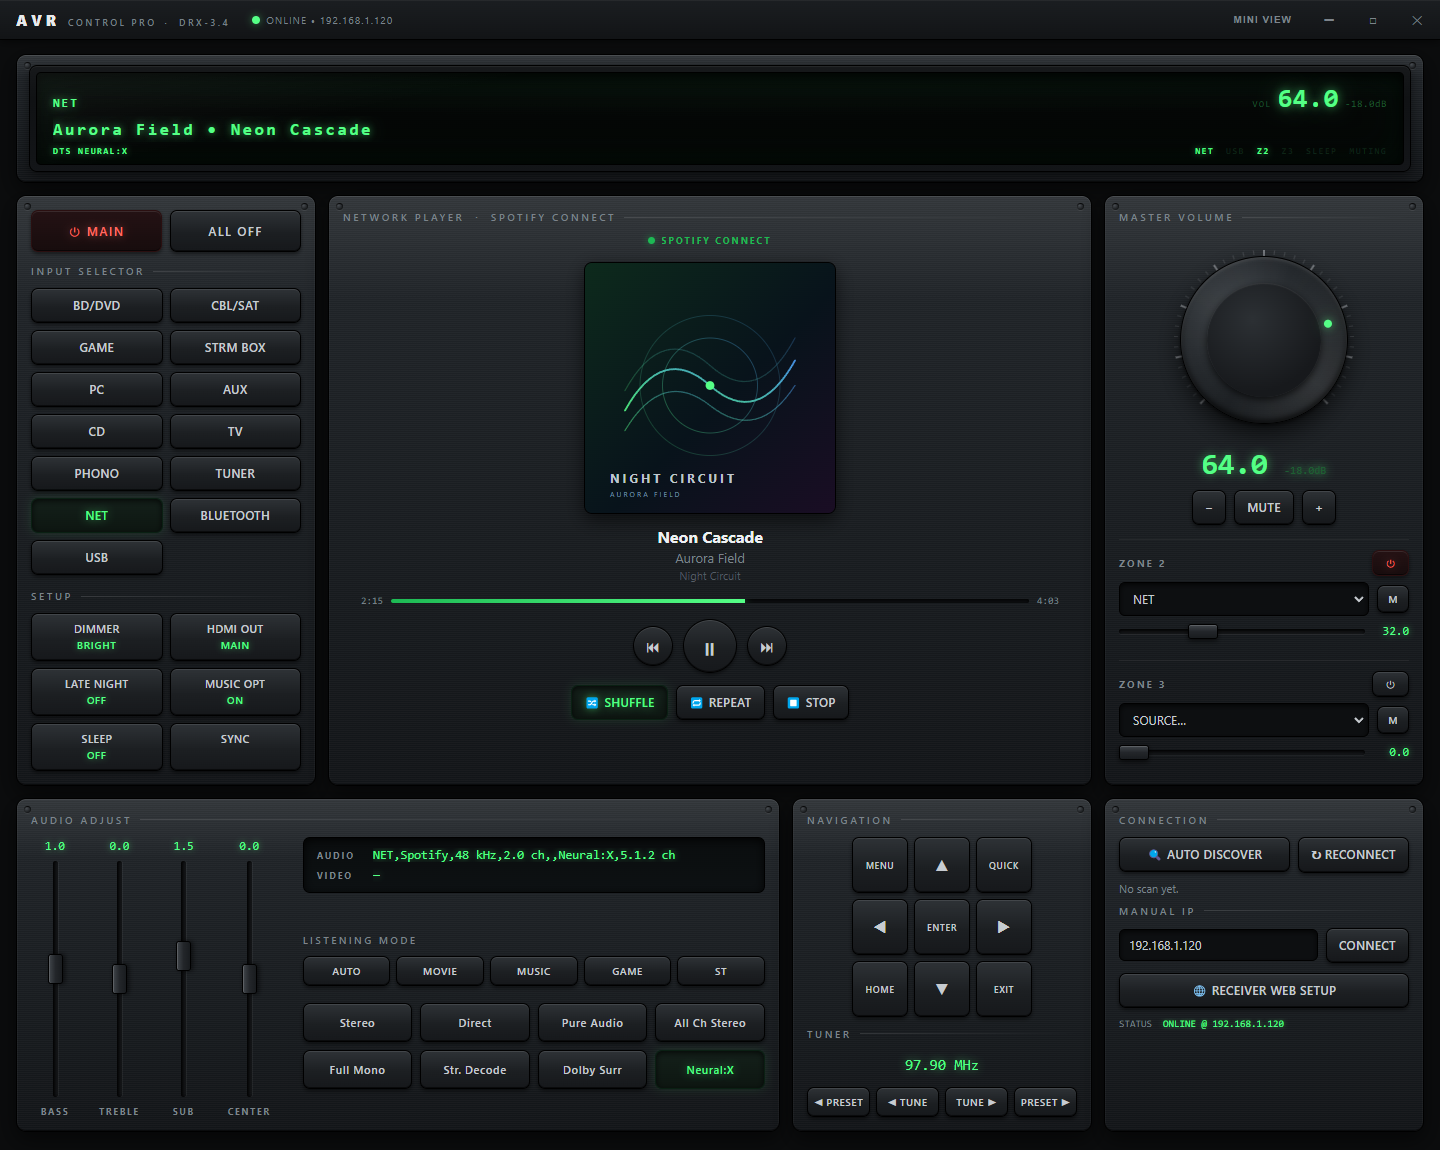
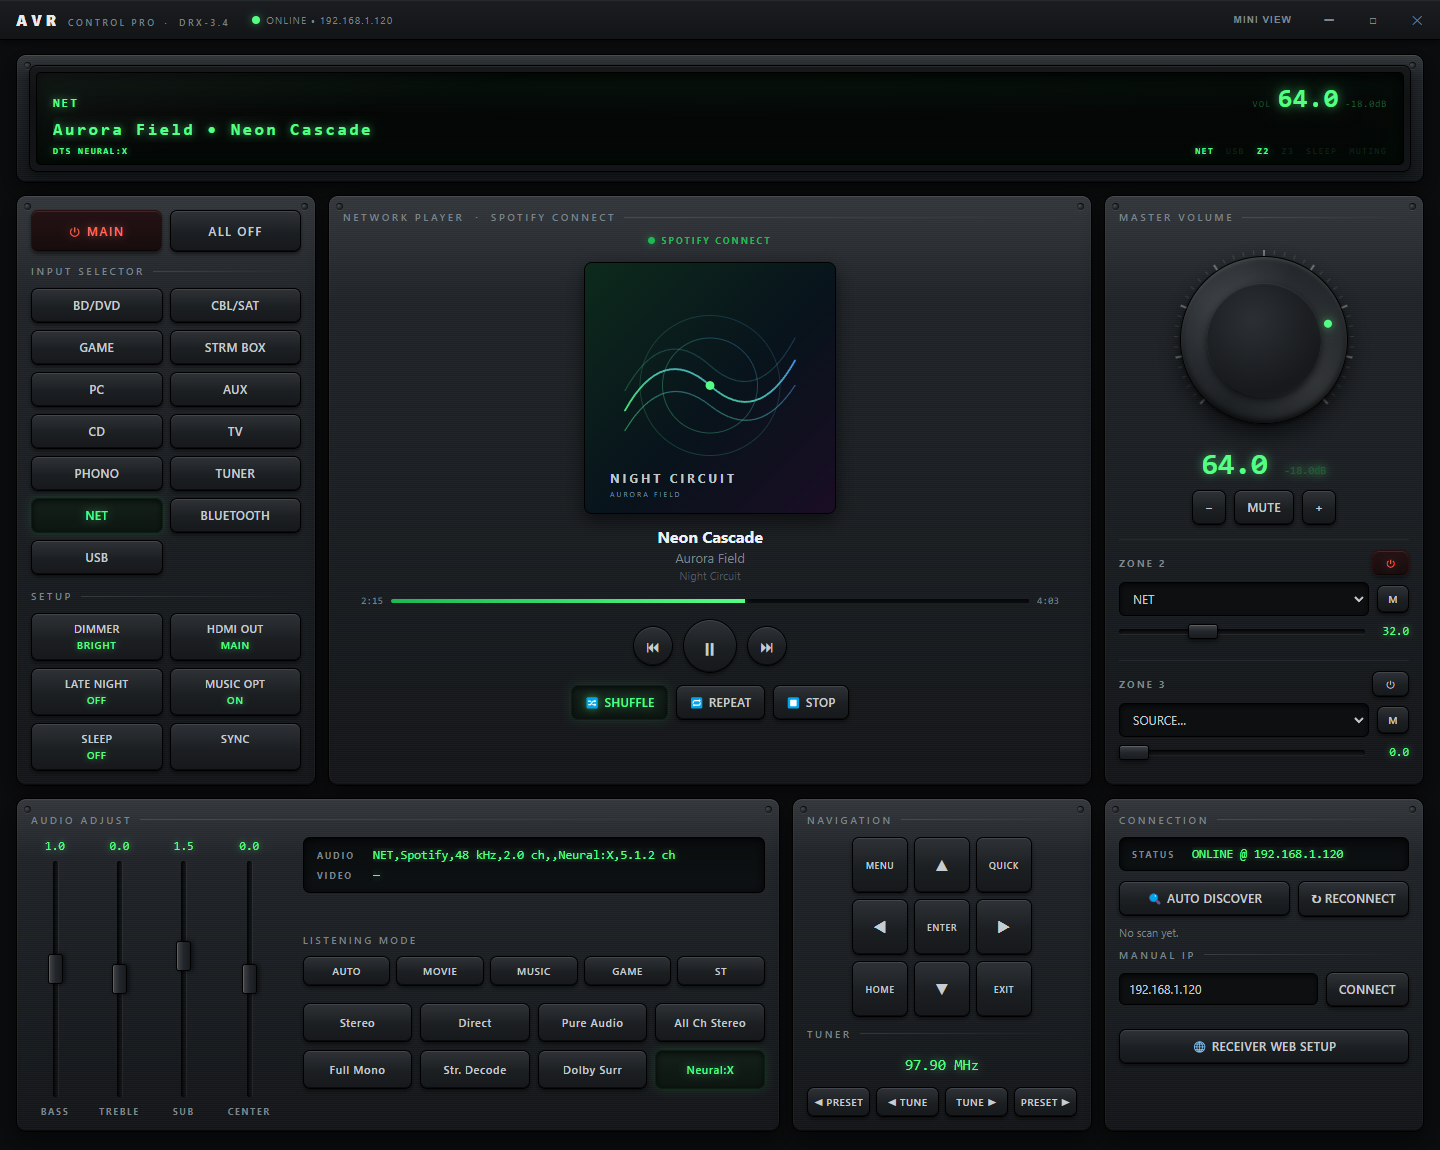
Lead the Connection panel with the status readout
Moves STATUS from the bottom of the panel to directly under the heading,
in the same inset frame and 12.5px type as the AUDIO/VIDEO readout, so
the connection state reads at a glance instead of being the smallest
line in the panel. Adds separation between the Manual IP row and the web
setup button, which were running together.

Changed region(s): [[0.7812, 0.7304, 1.0, 0.913]]

diff --git a/renderer/full.html b/renderer/full.html
@@ -126,6 +126,16 @@
   .info-line b.warn { color: #ffc266; text-shadow: 0 0 6px rgba(255,181,71,0.5); }
 
   /* Connection panel */
+  .status-bar { display: grid; grid-template-columns: 50px 1fr; gap: 10px; align-items: baseline;
+    margin-bottom: 10px; padding: 9px 12px; border-radius: 7px; border: 1px solid #000;
+    background: linear-gradient(180deg, #0a0d0e, #0d1113);
+    box-shadow: inset 0 2px 9px rgba(0,0,0,0.85); }
+  .status-bar span { font-size: 9px; font-weight: 700; letter-spacing: 1.8px; color: var(--text-dim); }
+  .status-bar b { font-family: Consolas, monospace; font-size: 12.5px; font-weight: 400;
+    color: var(--vfd); text-shadow: 0 0 6px var(--vfd-glow);
+    white-space: nowrap; overflow: hidden; text-overflow: ellipsis; }
+  .status-bar b.bad { color: #ff8b83; text-shadow: 0 0 6px rgba(255,95,86,0.5); }
+  .status-bar b.warn { color: #ffc266; text-shadow: 0 0 6px rgba(255,181,71,0.5); }
   .disc-list { display: flex; flex-direction: column; gap: 6px; max-height: 110px; overflow-y: auto; margin: 8px 0; }
   .disc-item { display: flex; justify-content: space-between; align-items: center; padding: 7px 10px;
     border-radius: 6px; background: rgba(0,0,0,0.3); border: 1px solid rgba(255,255,255,0.04);
@@ -312,6 +322,7 @@
       <!-- CONNECTION -->
       <div class="panel screws">
         <h3>Connection</h3>
+        <div class="status-bar"><span>STATUS</span><b id="connDetail">—</b></div>
         <div class="row" style="margin-bottom:8px;">
           <button class="btn" id="btnDiscover" style="flex:1;">&#x1F50D; AUTO DISCOVER</button>
           <button class="btn" id="btnReconnect" title="Drop and re-establish the control session">&#x21BB; RECONNECT</button>
@@ -322,11 +333,10 @@
           <input type="text" id="manualIp" placeholder="192.168.1.x" style="flex:1;">
           <button class="btn" id="btnConnect">CONNECT</button>
         </div>
-        <button class="btn" id="btnWebSetup" style="width:100%;margin-top:10px;"
+        <button class="btn" id="btnWebSetup" style="width:100%;margin-top:22px;"
                 title="Open the receiver's built-in setup page in your browser">
           &#x1F310; RECEIVER WEB SETUP
         </button>
-        <div class="info-line" style="margin-top:10px;">STATUS&nbsp; <b id="connDetail">—</b></div>
         <div class="conn-hint" id="connHint" style="display:none;">
           Receiver is accepting connections but refusing control sessions — its
           eISCP session slots are stuck. <b>Unplug the receiver's AC cord for 30
